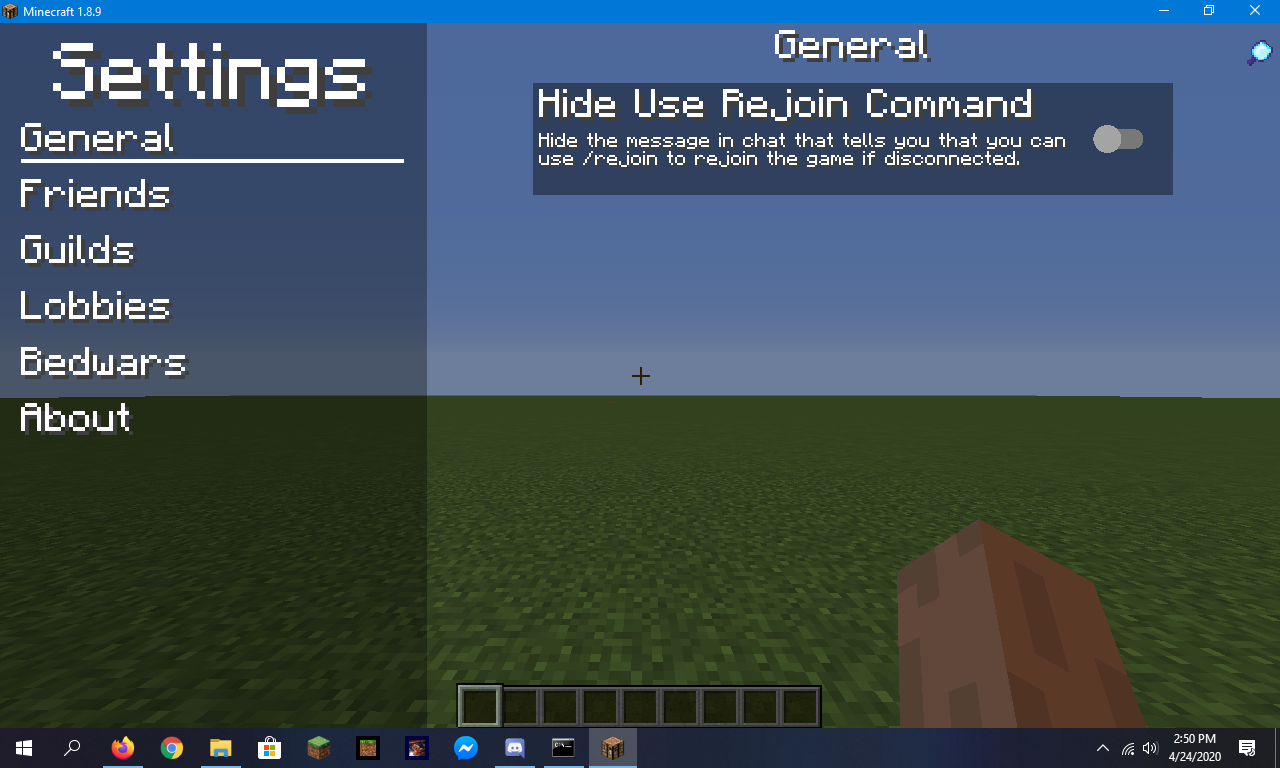
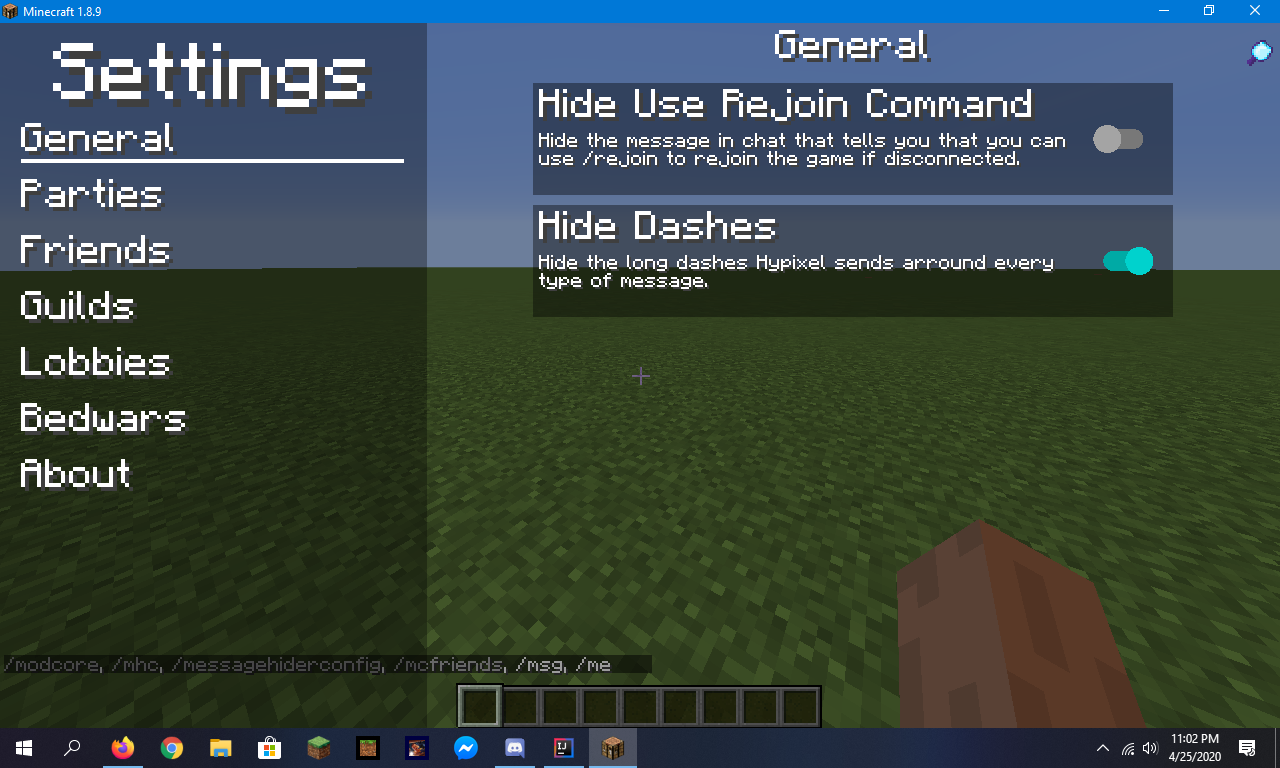
Added Parties Category, and also a few toggles.
Added a toggle for Friend Requests and Party Invites and also those long dashes.

diff --git a/src/main/java/io/github/zenyiar/messagehider/ZenyiarsMessageHider.java b/src/main/java/io/github/zenyiar/messagehider/ZenyiarsMessageHider.java
@@ -22,16 +22,26 @@ public class ZenyiarsMessageHider
 
     // General
     private final Pattern useRejoinCommand = Pattern.compile("If you get disconnected use /rejoin to join back in the game.");
+    private final Pattern hypixelDashes = Pattern.compile("-------------------------");
+
+    // Parties
+    private final Pattern partyInvite1 = Pattern.compile("\\w{1,20} \\w{1,16} has invited you to join their party!"); // when someone invites you to their party
+    private final Pattern partyInvite2 = Pattern.compile("\\w{1,20} \\w{1,16} invited \\w{1,20} \\w{1,16} to the party! They have (\\d+) seconds to accept."); // when someone invites you to someone elses party
+    private final Pattern partyInvite3 = Pattern.compile("Click here to join! You have (\\d+) seconds to accept.");
+    private final Pattern partyDashes = Pattern.compile("-------------------------");
 
     // Friends
     private final Pattern friendJoin = Pattern.compile("Friend > \\w{1,16} joined.");
     private final Pattern friendLeave = Pattern.compile("Friend > \\w{1,16} left.");
-    private final Pattern friendMessages = Pattern.compile("From \\w{1,16} \\w{1,16}: [\\w\\s]+ ");
+    private final Pattern friendMessages = Pattern.compile("From \\w{1,20} \\w{1,16}: [\\w\\s]+ ");
+    private final Pattern friendRequests1 = Pattern.compile("Friend request from \\w{1,20} \\w{1,16}");
+    private final Pattern friendRequests2 = Pattern.compile("[ACCEPT] - [DENY] - [IGNORE]");
+    private final Pattern friendDashes = Pattern.compile("------------------------------");
 
     // Guilds
     private final Pattern guildJoin = Pattern.compile("Guild > \\w{1,16} joined.");
     private final Pattern guildLeave = Pattern.compile("Guild > \\w{1,16} left.");
-    private final Pattern guildMessages = Pattern.compile("Guild > \\w{1,6} \\w{1,16}: [\\w\\s]+ ");
+    private final Pattern guildMessages = Pattern.compile("Guild > \\w{1,20} \\w{1,16}: [\\w\\s]+ ");
 
     // Lobbies
     private final Pattern gameStartsIn = Pattern.compile("The game starts in (\\d+) seconds?!");
@@ -60,11 +70,21 @@ public class ZenyiarsMessageHider
             event.setCanceled(
                 // General
                 MessageHiderConfig.hideUseRejoinCommand && useRejoinCommand.matcher(chat).matches() ||
+                MessageHiderConfig.hideHypixelDashes && hypixelDashes.matcher(chat).matches() ||
+
+                // Parties
+                MessageHiderConfig.hidePartyInvite && partyInvite1.matcher(chat).matches() ||
+                MessageHiderConfig.hidePartyInvite && partyInvite2.matcher(chat).matches() ||
+                MessageHiderConfig.hidePartyInvite && partyInvite3.matcher(chat).matches() ||
+                MessageHiderConfig.hidePartyInvite && partyDashes.matcher(chat).matches() ||
 
                 // Friends
                 MessageHiderConfig.hideFriendJoin && friendJoin.matcher(chat).matches() ||
                 MessageHiderConfig.hideFriendLeave && friendLeave.matcher(chat).matches() ||
                 MessageHiderConfig.hideFriendMessages && friendMessages.matcher(chat).matches() ||
+                MessageHiderConfig.hideFriendRequests && friendRequests1.matcher(chat).matches() ||
+                MessageHiderConfig.hideFriendRequests && friendRequests2.matcher(chat).matches() ||
+                MessageHiderConfig.hideFriendRequests && friendDashes.matcher(chat).matches() ||
 
                 // Guilds
                 MessageHiderConfig.hideGuildJoin && guildJoin.matcher(chat).matches() ||
@@ -81,6 +101,5 @@ public class ZenyiarsMessageHider
                 MessageHiderConfig.hideBwRespawnMessage && bwRespawnMessage.matcher(chat).matches()
             );
         }
-
     }
 }

diff --git a/src/main/java/io/github/zenyiar/messagehider/MessageHiderConfig.java b/src/main/java/io/github/zenyiar/messagehider/MessageHiderConfig.java
@@ -21,6 +21,25 @@ public class MessageHiderConfig extends Vigilant
     )
     public static boolean hideUseRejoinCommand = false;
 
+    @Property(
+        type = PropertyType.SWITCH,
+        name = "Hide Dashes",
+        description = "Hide the long dashes Hypixel sends arround every type of message.",
+        category = "General",
+        subcategory = "General"
+    )
+    public static boolean hideHypixelDashes = false;
+
+    // Parties
+    @Property(
+        type = PropertyType.SWITCH,
+        name = "Hide Party Invites",
+        description = "Hide the party invite messages that people send you.",
+        category = "Parties",
+        subcategory = "Invites"
+    )
+    public static boolean hidePartyInvite = false;
+
     // Friends
     @Property(
         type = PropertyType.SWITCH,
@@ -48,6 +67,15 @@ public class MessageHiderConfig extends Vigilant
         subcategory = "Chat"
     )
     public static boolean hideFriendMessages = false;
+
+    @Property(
+        type = PropertyType.SWITCH,
+        name = "Hide Friend Requests",
+        description = "Hide friend requests that people send you!",
+        category = "Friends",
+        subcategory = "Chat"
+    )
+    public static boolean hideFriendRequests = false;
 
     // Guilds
     @Property(

diff --git a/src/main/java/io/github/zenyiar/messagehider/Reference.java b/src/main/java/io/github/zenyiar/messagehider/Reference.java
@@ -6,6 +6,6 @@ package io.github.zenyiar.messagehider;
 public class Reference 
 {
     public static final String MODID = "zenyiars_hypixel_message_hider";
-    public static final String VERSION = "1.0";
+    public static final String VERSION = "1.1";
     public static final String VERSION_RELEASE_DATE = "March 24, 2020";
 }
